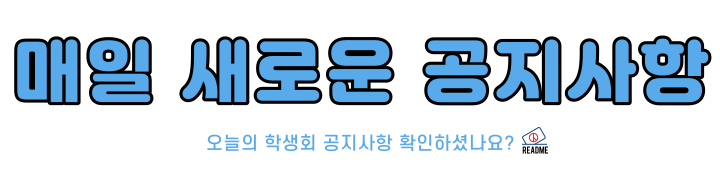
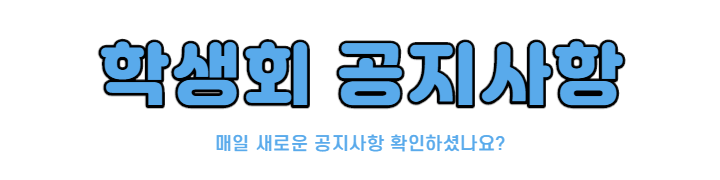
각 페이지 헤더 이미지 변경

diff --git a/src/pages/components/vote/Vote.js b/src/pages/components/vote/Vote.js
@@ -6,8 +6,11 @@ import VoteCandidate from "./VoteCandidate";
 import VoteResult from "./VoteResult";
 import { fetchSelectCode } from "../Common";
 import "../css/Vote.css";
+import "../css/HeaderPoster.css";
 
-const VoteInfoPoster = require("../../../img/Notice.png");
+const VoteInfoPoster = require("../../../img/VoteNotice.png");
+const VoteCandidatePoster = require("../../../img/CandidateList.png")
+const VoteResultPoster = require("../../../img/CandidateResult.png")
 
 const Vote = (props) => {
 
@@ -39,7 +42,9 @@ const Vote = (props) => {
     const state = useSelector(state => state.voteMenu)
     return(
         <div className="votecontainer">
-            <img className={"VoteInfoPoster"} src={VoteInfoPoster} alt="선거 공지 설명 이미지"></img>
+            {state[0].isActive ? <img id="NoticePoster" src={VoteInfoPoster} alt="선거 공지 설명 이미지"></img>:""}
+            {state[1].isActive ? <img id="NoticePoster" src={VoteCandidatePoster} alt="입후보자 설명 이미지"></img>:""}
+            {state[2].isActive ? <img id="NoticePoster" src={VoteResultPoster} alt="선거 공지 설명 이미지"></img>:""}
             <VoteHeader voteMenu={state}></VoteHeader>
             {state[0].isActive ? <VoteInfo/>:""}
             {state[1].isActive ? <VoteCandidate dataDispatch={dataDispatch}/>:""}

diff --git a/src/pages/components/council/Council.js b/src/pages/components/council/Council.js
@@ -1,10 +1,15 @@
-import React, { useState, useEffect } from "react";
+import React, { useEffect } from "react";
 import { useSelector, useDispatch } from "react-redux";
+import { fetchSelectCode } from "../Common";
+import SelectCollege from "../SelectCollege";
 import CouncilChart from "./CouncilChart";
+import CouncilList from "./CouncilList";
 import CouncilCarousel from "./CouncilCarousel";
 import CouncilButton from "./CouncilButton";
-import SelectCollege from "../SelectCollege";
-import { fetchSelectCode } from "../Common";
+import "../css/HeaderPoster.css";
+import "../css/CouncilSelect.css"
+
+const CouncilPoster = require("../../../img/Council.png")
 
 const Council = (props) => {
     const dispatch = useDispatch();
@@ -22,13 +27,16 @@ const Council = (props) => {
 
     return (
         <div>
+            <img id="NoticePoster" src={CouncilPoster} alt="학생회 이미지"></img>
             <div>
                 <SelectCollege dataDispatch={dataDispatch}></SelectCollege>
             </div>
             <div>
                 <CouncilChart />
             </div>
-            <div>공약 목록 버튼</div>
+            <div>
+                <CouncilList />
+            </div>
             <div>
                 <CouncilCarousel />
             </div>

diff --git a/src/pages/components/vote/VoteInfo.js b/src/pages/components/vote/VoteInfo.js
@@ -1,18 +1,19 @@
-import React, {useState, useEffect} from 'react';
-import { useDispatch } from 'react-redux'
-import Poster from "../Poster"
+import React, { useState, useEffect } from "react";
+import { useDispatch } from "react-redux";
+import Poster from "../Poster";
 
-const vote1 =  require("../../../img/vote1.png");
-const vote2 =  require("../../../img/vote2.png");
+const vote1 = require("../../../img/vote1.png");
+const vote2 = require("../../../img/vote2.png");
 
 const VoteInfo = () => {
-
     return (
-        <div className={"vote_Info"} style={{marginBottom:"50px"}}>
-            {vote1 && <Poster class2={"vote_poster"} img={vote1}></Poster>}
-            {vote2 && <Poster class2={"vote_poster"} img={vote2}></Poster>}
+        <div>
+            <div className={"vote_Info"} style={{ marginBottom: "50px" }}>
+                {vote1 && <Poster class2={"vote_poster"} img={vote1}></Poster>}
+                {vote2 && <Poster class2={"vote_poster"} img={vote2}></Poster>}
+            </div>
         </div>
-    )
-}
+    );
+};
 
-export default VoteInfo
+export default VoteInfo;

diff --git a/src/pages/components/council/CouncilList.js b/src/pages/components/council/CouncilList.js
@@ -1,0 +1,32 @@
+import React, { useState, useEffect } from "react";
+import { Link } from "react-router-dom";
+import Button from "@material-ui/core/Button";
+import "../css/CouncilButton.css";
+import { withStyles, makeStyles } from "@material-ui/core/styles";
+
+const useStyles = makeStyles((theme) => ({
+    buttondiv: {
+        width: "51%",
+        margin: "0 auto",
+        padding: "40px"
+    },
+    button: {
+        backgroundColor: "white",
+        color: "black",
+    },
+}));
+
+function CouncilButton() {
+    const classes = useStyles();
+    return (
+        <div id="buttondiv" className={classes.buttondiv}>
+            <Link to="#">
+                <Button id="Button" className={classes.button} variant="contained">
+                    공약 목록 전체 보기
+                </Button>
+            </Link>
+        </div>
+    );
+}
+
+export default CouncilButton;

diff --git a/src/pages/components/SelectCollege.js b/src/pages/components/SelectCollege.js
@@ -66,8 +66,8 @@ const SelectCollege = (props) => {
     },[])
 
     return (
-        <div>
-            <select className={"select"} onChange={onChangeCollege} value={collegeValue}>
+        <div className="selectdiv">
+            <select id="college" className={"select"} onChange={onChangeCollege} value={collegeValue}>
                 <option value="0">총학생회</option>
                 <option value="1">경영대학</option>
                 <option value="2">사회과학대학</option>

diff --git a/src/pages/components/css/CouncilSelect.css b/src/pages/components/css/CouncilSelect.css
@@ -1,0 +1,26 @@
+.selectdiv{
+    margin: 0 auto;
+    margin-bottom: 3%;
+}
+#college {
+    margin-right:10px;
+}
+#major {
+    margin: 0%;
+}
+.select {
+    width:17%;
+    height:50px;
+    border:2px solid rgb(89, 170, 235);
+    border-radius:5px;
+    outline: none;
+}
+@media (max-width: 768px) {
+    .select{
+        width:43%;
+        height:40px;
+        border:2px solid rgb(89, 170, 235);
+        margin-right:20px;
+        border-radius:5px;
+    }
+}

diff --git a/src/pages/components/css/CouncilButton.css b/src/pages/components/css/CouncilButton.css
@@ -1,7 +1,7 @@
-  @media all and (min-width:480px) and (max-width:768px) {
+@media all and (min-width:480px) and (max-width:768px) {
     #buttondiv {
         width: 80%;
-        padding: 5%;
+        padding: 3%;
         margin-bottom: 5%;
     }
 }
@@ -9,7 +9,7 @@
 @media all and (max-width:480px) {
     #buttondiv {
         width: 80%;
-        padding: 5%;
+        padding: 3%;
         margin-bottom: 10%;
     }
 }

diff --git a/src/pages/components/notice/NoticeTable.js b/src/pages/components/notice/NoticeTable.js
@@ -12,6 +12,7 @@ import TableCell from "@material-ui/core/TableCell";
 import TableFooter from "@material-ui/core/TableFooter";
 import TablePagination from "@material-ui/core/TablePagination";
 import Button from "@material-ui/core/Button";
+import "../css/HeaderPoster.css";
 
 const NoticePoster = require("../../../img/Notice.png");
 

diff --git a/src/pages/components/css/Notice.css b/src/pages/components/css/Notice.css
@@ -1,17 +1,6 @@
-#NoticePoster {
-    width: 50%;
-    display: block;
-    margin: 0px auto;
-}
-
 @media all and (max-width:768px) {
     #MobileNotice {
         display: none;
-    }
-    #NoticePoster {
-        width: 90%;
-        display: block;
-        margin: 0px auto;
     }
     #NoticeTable {
         width: 95%;

diff --git a/src/pages/components/css/CouncilCarousel.css b/src/pages/components/css/CouncilCarousel.css
@@ -2,7 +2,6 @@
     width: 50%;
     min-width: 200;
     margin: 0 auto;
-    margin-top: 5%;
 }
 .carousel .slide .legend {
     background: #59AAEB !important; 
@@ -12,6 +11,5 @@
     .carousel-wrapper {
         width: 80%;
         margin: 0px auto;
-        margin-top: 5%;
     }
 }

diff --git a/src/pages/components/css/HeaderPoster.css b/src/pages/components/css/HeaderPoster.css
@@ -1,0 +1,12 @@
+#NoticePoster {
+    width: 50%;
+    display: block;
+    margin: 0px auto;
+}
+@media all and (max-width: 768px) {
+    #NoticePoster {
+        width: 90%;
+        display: block;
+        margin: 0px auto;
+    }
+}

diff --git a/src/pages/components/council/CouncilButton.js b/src/pages/components/council/CouncilButton.js
@@ -8,7 +8,7 @@ const useStyles = makeStyles((theme) => ({
     buttondiv: {
         width: "51%",
         margin: "0 auto",
-        padding: "1%"
+        padding: "1%",
     },
     button: {
         backgroundColor: "#59AAEB",
